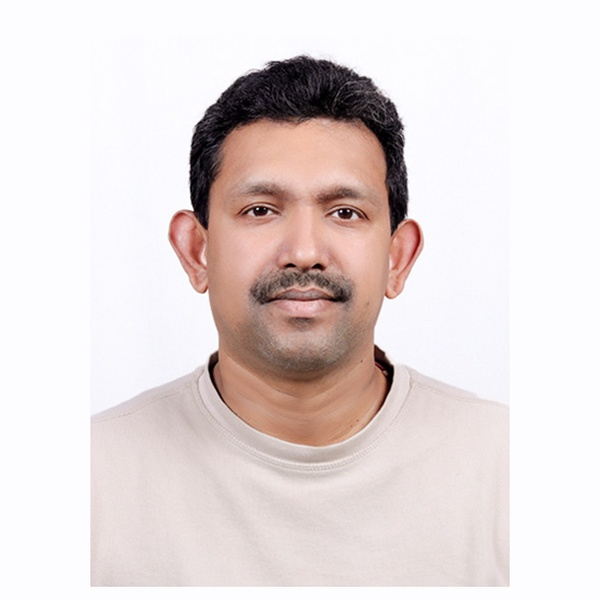
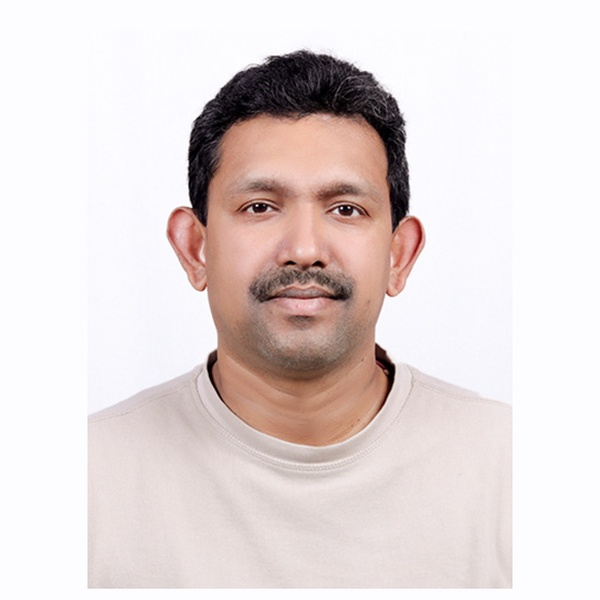
feat: brighten hero video right side, update contact phone and email, re-render all committee portraits

diff --git a/eia-pitch.html b/eia-pitch.html
@@ -576,15 +576,15 @@
       width: 100%;
       height: 100%;
       object-fit: cover;
-      opacity: 0.58;
+      opacity: 0.78;
     }
 
     .hero-bg::after {
       content: "";
       position: absolute;
       inset: 0;
-      background: linear-gradient(90deg, rgba(15, 12, 10, 0.94) 0%, rgba(15, 12, 10, 0.82) 46%, rgba(15, 12, 10, 0.32) 80%, rgba(15, 12, 10, 0.15) 100%),
-        linear-gradient(180deg, rgba(15, 12, 10, 0.3) 0%, rgba(15, 12, 10, 0.75) 100%);
+      background: linear-gradient(90deg, rgba(15, 12, 10, 0.94) 0%, rgba(15, 12, 10, 0.82) 42%, rgba(15, 12, 10, 0.16) 72%, rgba(15, 12, 10, 0.0) 100%),
+        linear-gradient(180deg, rgba(15, 12, 10, 0.2) 0%, transparent 40%, rgba(15, 12, 10, 0.4) 100%);
     }
 
     .hero-wrap {
@@ -3761,14 +3761,19 @@
           </div>
           <div class="foot-contact-item">
             <div class="ci"><svg viewBox="0 0 24 24" fill="none" stroke="currentColor" stroke-width="2">
+                <path d="M22 16.92v3a2 2 0 0 1-2.18 2 19.79 19.79 0 0 1-8.63-3.07 19.5 19.5 0 0 1-6-6 19.79 19.79 0 0 1-3.07-8.67A2 2 0 0 1 4.11 2h3a2 2 0 0 1 2 1.72 12.84 12.84 0 0 0 .7 2.81 2 2 0 0 1-.45 2.11L8.09 9.91a16 16 0 0 0 6 6l1.27-1.27a2 2 0 0 1 2.11-.45 12.84 12.84 0 0 0 2.81.7A2 2 0 0 1 22 16.92z"/>
+              </svg></div>
+            Phone: <a href="tel:+353899897110" style="color:var(--amber);">+353 89 989 7110</a>
+          </div>
+          <div class="foot-contact-item">
+            <div class="ci"><svg viewBox="0 0 24 24" fill="none" stroke="currentColor" stroke-width="2">
                 <path d="M4 4h16c1.1 0 2 .9 2 2v12c0 1.1-.9 2-2 2H4c-1.1 0-2-.9-2-2V6c0-1.1.9-2 2-2z" />
                 <polyline points="22,6 12,13 2,6" />
               </svg></div>
-            <a href="mailto:info@enniscorthyindians.ie" style="color:var(--amber);">info@enniscorthyindians.ie</a>
-            &bull; contact@eiawexford.org
+            <a href="mailto:enniscorthyindianassociation@gmail.com" style="color:var(--amber);">enniscorthyindianassociation@gmail.com</a>
           </div>
           <div class="foot-socials">
-            <a href="https://wa.me/" target="_blank" rel="noopener" aria-label="WhatsApp">
+            <a href="https://wa.me/353899897110" target="_blank" rel="noopener" aria-label="WhatsApp">
               <svg viewBox="0 0 24 24" fill="currentColor">
                 <path
                   d="M17.472 14.382c-.297-.149-1.758-.867-2.03-.967-.273-.099-.471-.148-.67.15-.197.297-.767.966-.94 1.164-.173.199-.347.223-.644.075-.297-.15-1.255-.463-2.39-1.475-.883-.788-1.48-1.761-1.653-2.059-.173-.297-.018-.458.13-.606.134-.133.298-.347.446-.52.149-.174.198-.298.298-.497.099-.198.05-.371-.025-.52-.075-.149-.669-1.612-.916-2.207-.242-.579-.487-.5-.669-.51-.173-.008-.371-.01-.57-.01-.198 0-.52.074-.792.372-.272.297-1.04 1.016-1.04 2.479 0 1.462 1.065 2.875 1.213 3.074.149.198 2.096 3.2 5.077 4.487.709.306 1.262.489 1.694.625.712.227 1.36.195 1.871.118.571-.085 1.758-.719 2.006-1.413.248-.694.248-1.289.173-1.413-.074-.124-.272-.198-.57-.347zM12 0C5.373 0 0 5.373 0 12c0 2.625.846 5.059 2.284 7.034L.789 23.492l4.624-1.467A11.932 11.932 0 0012 24c6.627 0 12-5.373 12-12S18.627 0 12 0zm0 21.818c-2.168 0-4.18-.587-5.916-1.607l-.424-.252-2.74.87.892-2.657-.278-.441A9.793 9.793 0 012.182 12 9.818 9.818 0 0112 2.182 9.818 9.818 0 0121.818 12 9.818 9.818 0 0112 21.818z" />

diff --git a/index.html b/index.html
@@ -574,15 +574,15 @@
       width: 100%;
       height: 100%;
       object-fit: cover;
-      opacity: 0.58;
+      opacity: 0.78;
     }
 
     .hero-bg::after {
       content: "";
       position: absolute;
       inset: 0;
-      background: linear-gradient(90deg, rgba(15, 12, 10, 0.94) 0%, rgba(15, 12, 10, 0.82) 46%, rgba(15, 12, 10, 0.32) 80%, rgba(15, 12, 10, 0.15) 100%),
-                  linear-gradient(180deg, rgba(15, 12, 10, 0.3) 0%, rgba(15, 12, 10, 0.75) 100%);
+      background: linear-gradient(90deg, rgba(15, 12, 10, 0.94) 0%, rgba(15, 12, 10, 0.82) 42%, rgba(15, 12, 10, 0.16) 72%, rgba(15, 12, 10, 0.0) 100%),
+                  linear-gradient(180deg, rgba(15, 12, 10, 0.2) 0%, transparent 40%, rgba(15, 12, 10, 0.4) 100%);
     }
 
     .hero-wrap {
@@ -3458,7 +3458,7 @@
             <div class="ci"><svg viewBox="0 0 24 24" fill="none" stroke="currentColor" stroke-width="2">
                 <path d="M22 16.92v3a2 2 0 0 1-2.18 2 19.79 19.79 0 0 1-8.63-3.07 19.5 19.5 0 0 1-6-6 19.79 19.79 0 0 1-3.07-8.67A2 2 0 0 1 4.11 2h3a2 2 0 0 1 2 1.72 12.84 12.84 0 0 0 .7 2.81 2 2 0 0 1-.45 2.11L8.09 9.91a16 16 0 0 0 6 6l1.27-1.27a2 2 0 0 1 2.11-.45 12.84 12.84 0 0 0 2.81.7A2 2 0 0 1 22 16.92z"/>
               </svg></div>
-            Phone: <a href="tel:0899897110" style="color:var(--amber);">089 989 7110</a>
+            Phone: <a href="tel:+353899897110" style="color:var(--amber);">+353 89 989 7110</a>
           </div>
           <div class="foot-contact-item">
             <div class="ci"><svg viewBox="0 0 24 24" fill="none" stroke="currentColor" stroke-width="2">
@@ -3468,7 +3468,7 @@
             <a href="mailto:enniscorthyindianassociation@gmail.com" style="color:var(--amber);">enniscorthyindianassociation@gmail.com</a>
           </div>
           <div class="foot-socials">
-            <a href="https://wa.me/" target="_blank" rel="noopener" aria-label="WhatsApp">
+            <a href="https://wa.me/353899897110" target="_blank" rel="noopener" aria-label="WhatsApp">
               <svg viewBox="0 0 24 24" fill="currentColor">
                 <path d="M17.472 14.382c-.297-.149-1.758-.867-2.03-.967-.273-.099-.471-.148-.67.15-.197.297-.767.966-.94 1.164-.173.199-.347.223-.644.075-.297-.15-1.255-.463-2.39-1.475-.883-.788-1.48-1.761-1.653-2.059-.173-.297-.018-.458.13-.606.134-.133.298-.347.446-.52.149-.174.198-.298.298-.497.099-.198.05-.371-.025-.52-.075-.149-.669-1.612-.916-2.207-.242-.579-.487-.5-.669-.51-.173-.008-.371-.01-.57-.01-.198 0-.52.074-.792.372-.272.297-1.04 1.016-1.04 2.479 0 1.462 1.065 2.875 1.213 3.074.149.198 2.096 3.2 5.077 4.487.709.306 1.262.489 1.694.625.712.227 1.36.195 1.871.118.571-.085 1.758-.719 2.006-1.413.248-.694.248-1.289.173-1.413-.074-.124-.272-.198-.57-.347zM12 0C5.373 0 0 5.373 0 12c0 2.625.846 5.059 2.284 7.034L.789 23.492l4.624-1.467A11.932 11.932 0 0012 24c6.627 0 12-5.373 12-12S18.627 0 12 0zm0 21.818c-2.168 0-4.18-.587-5.916-1.607l-.424-.252-2.74.87.892-2.657-.278-.441A9.793 9.793 0 012.182 12 9.818 9.818 0 0112 2.182 9.818 9.818 0 0121.818 12 9.818 9.818 0 0112 21.818z" />
               </svg>

diff --git a/main.html b/main.html
@@ -574,15 +574,15 @@
       width: 100%;
       height: 100%;
       object-fit: cover;
-      opacity: 0.58;
+      opacity: 0.78;
     }
 
     .hero-bg::after {
       content: "";
       position: absolute;
       inset: 0;
-      background: linear-gradient(90deg, rgba(15, 12, 10, 0.94) 0%, rgba(15, 12, 10, 0.82) 46%, rgba(15, 12, 10, 0.32) 80%, rgba(15, 12, 10, 0.15) 100%),
-                  linear-gradient(180deg, rgba(15, 12, 10, 0.3) 0%, rgba(15, 12, 10, 0.75) 100%);
+      background: linear-gradient(90deg, rgba(15, 12, 10, 0.94) 0%, rgba(15, 12, 10, 0.82) 42%, rgba(15, 12, 10, 0.16) 72%, rgba(15, 12, 10, 0.0) 100%),
+                  linear-gradient(180deg, rgba(15, 12, 10, 0.2) 0%, transparent 40%, rgba(15, 12, 10, 0.4) 100%);
     }
 
     .hero-wrap {
@@ -3458,7 +3458,7 @@
             <div class="ci"><svg viewBox="0 0 24 24" fill="none" stroke="currentColor" stroke-width="2">
                 <path d="M22 16.92v3a2 2 0 0 1-2.18 2 19.79 19.79 0 0 1-8.63-3.07 19.5 19.5 0 0 1-6-6 19.79 19.79 0 0 1-3.07-8.67A2 2 0 0 1 4.11 2h3a2 2 0 0 1 2 1.72 12.84 12.84 0 0 0 .7 2.81 2 2 0 0 1-.45 2.11L8.09 9.91a16 16 0 0 0 6 6l1.27-1.27a2 2 0 0 1 2.11-.45 12.84 12.84 0 0 0 2.81.7A2 2 0 0 1 22 16.92z"/>
               </svg></div>
-            Phone: <a href="tel:0899897110" style="color:var(--amber);">089 989 7110</a>
+            Phone: <a href="tel:+353899897110" style="color:var(--amber);">+353 89 989 7110</a>
           </div>
           <div class="foot-contact-item">
             <div class="ci"><svg viewBox="0 0 24 24" fill="none" stroke="currentColor" stroke-width="2">
@@ -3468,7 +3468,7 @@
             <a href="mailto:enniscorthyindianassociation@gmail.com" style="color:var(--amber);">enniscorthyindianassociation@gmail.com</a>
           </div>
           <div class="foot-socials">
-            <a href="https://wa.me/" target="_blank" rel="noopener" aria-label="WhatsApp">
+            <a href="https://wa.me/353899897110" target="_blank" rel="noopener" aria-label="WhatsApp">
               <svg viewBox="0 0 24 24" fill="currentColor">
                 <path d="M17.472 14.382c-.297-.149-1.758-.867-2.03-.967-.273-.099-.471-.148-.67.15-.197.297-.767.966-.94 1.164-.173.199-.347.223-.644.075-.297-.15-1.255-.463-2.39-1.475-.883-.788-1.48-1.761-1.653-2.059-.173-.297-.018-.458.13-.606.134-.133.298-.347.446-.52.149-.174.198-.298.298-.497.099-.198.05-.371-.025-.52-.075-.149-.669-1.612-.916-2.207-.242-.579-.487-.5-.669-.51-.173-.008-.371-.01-.57-.01-.198 0-.52.074-.792.372-.272.297-1.04 1.016-1.04 2.479 0 1.462 1.065 2.875 1.213 3.074.149.198 2.096 3.2 5.077 4.487.709.306 1.262.489 1.694.625.712.227 1.36.195 1.871.118.571-.085 1.758-.719 2.006-1.413.248-.694.248-1.289.173-1.413-.074-.124-.272-.198-.57-.347zM12 0C5.373 0 0 5.373 0 12c0 2.625.846 5.059 2.284 7.034L.789 23.492l4.624-1.467A11.932 11.932 0 0012 24c6.627 0 12-5.373 12-12S18.627 0 12 0zm0 21.818c-2.168 0-4.18-.587-5.916-1.607l-.424-.252-2.74.87.892-2.657-.278-.441A9.793 9.793 0 012.182 12 9.818 9.818 0 0112 2.182 9.818 9.818 0 0121.818 12 9.818 9.818 0 0112 21.818z" />
               </svg>
